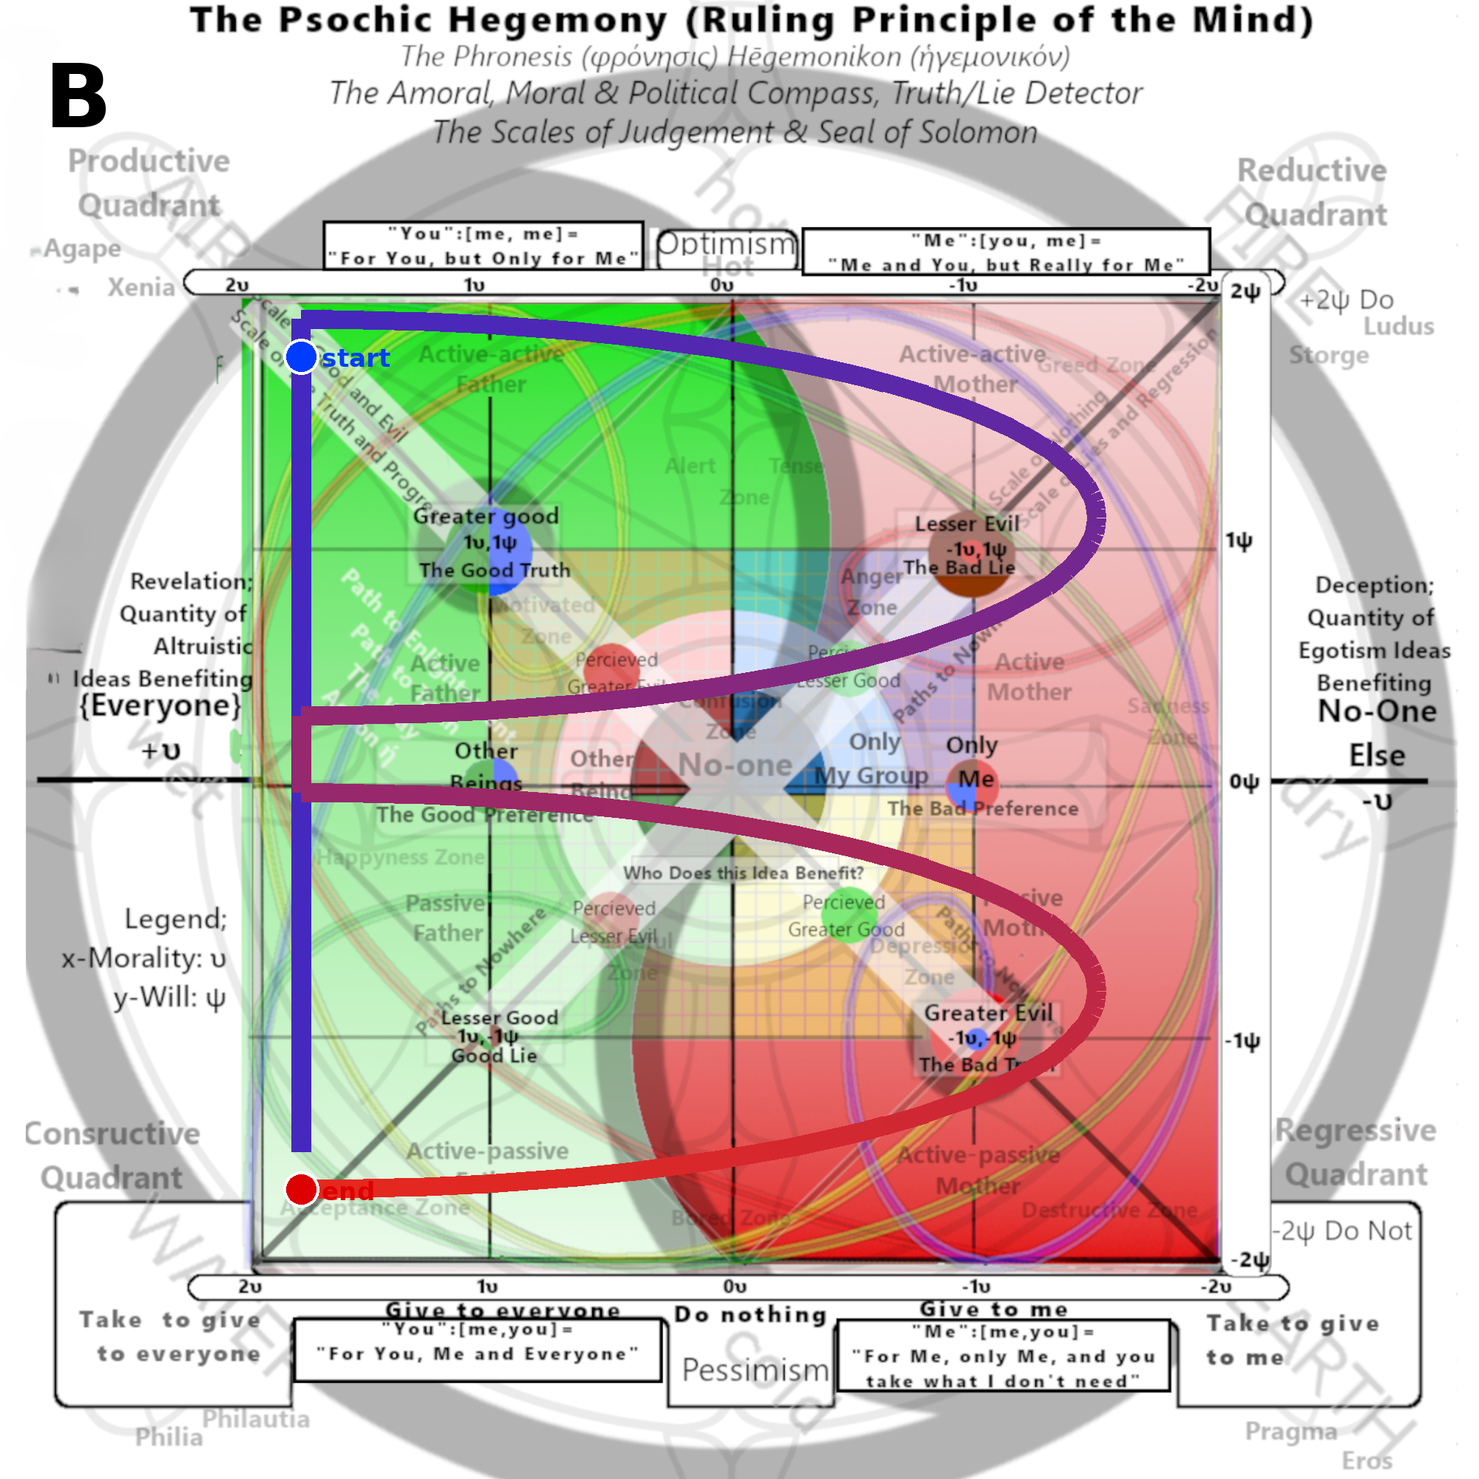
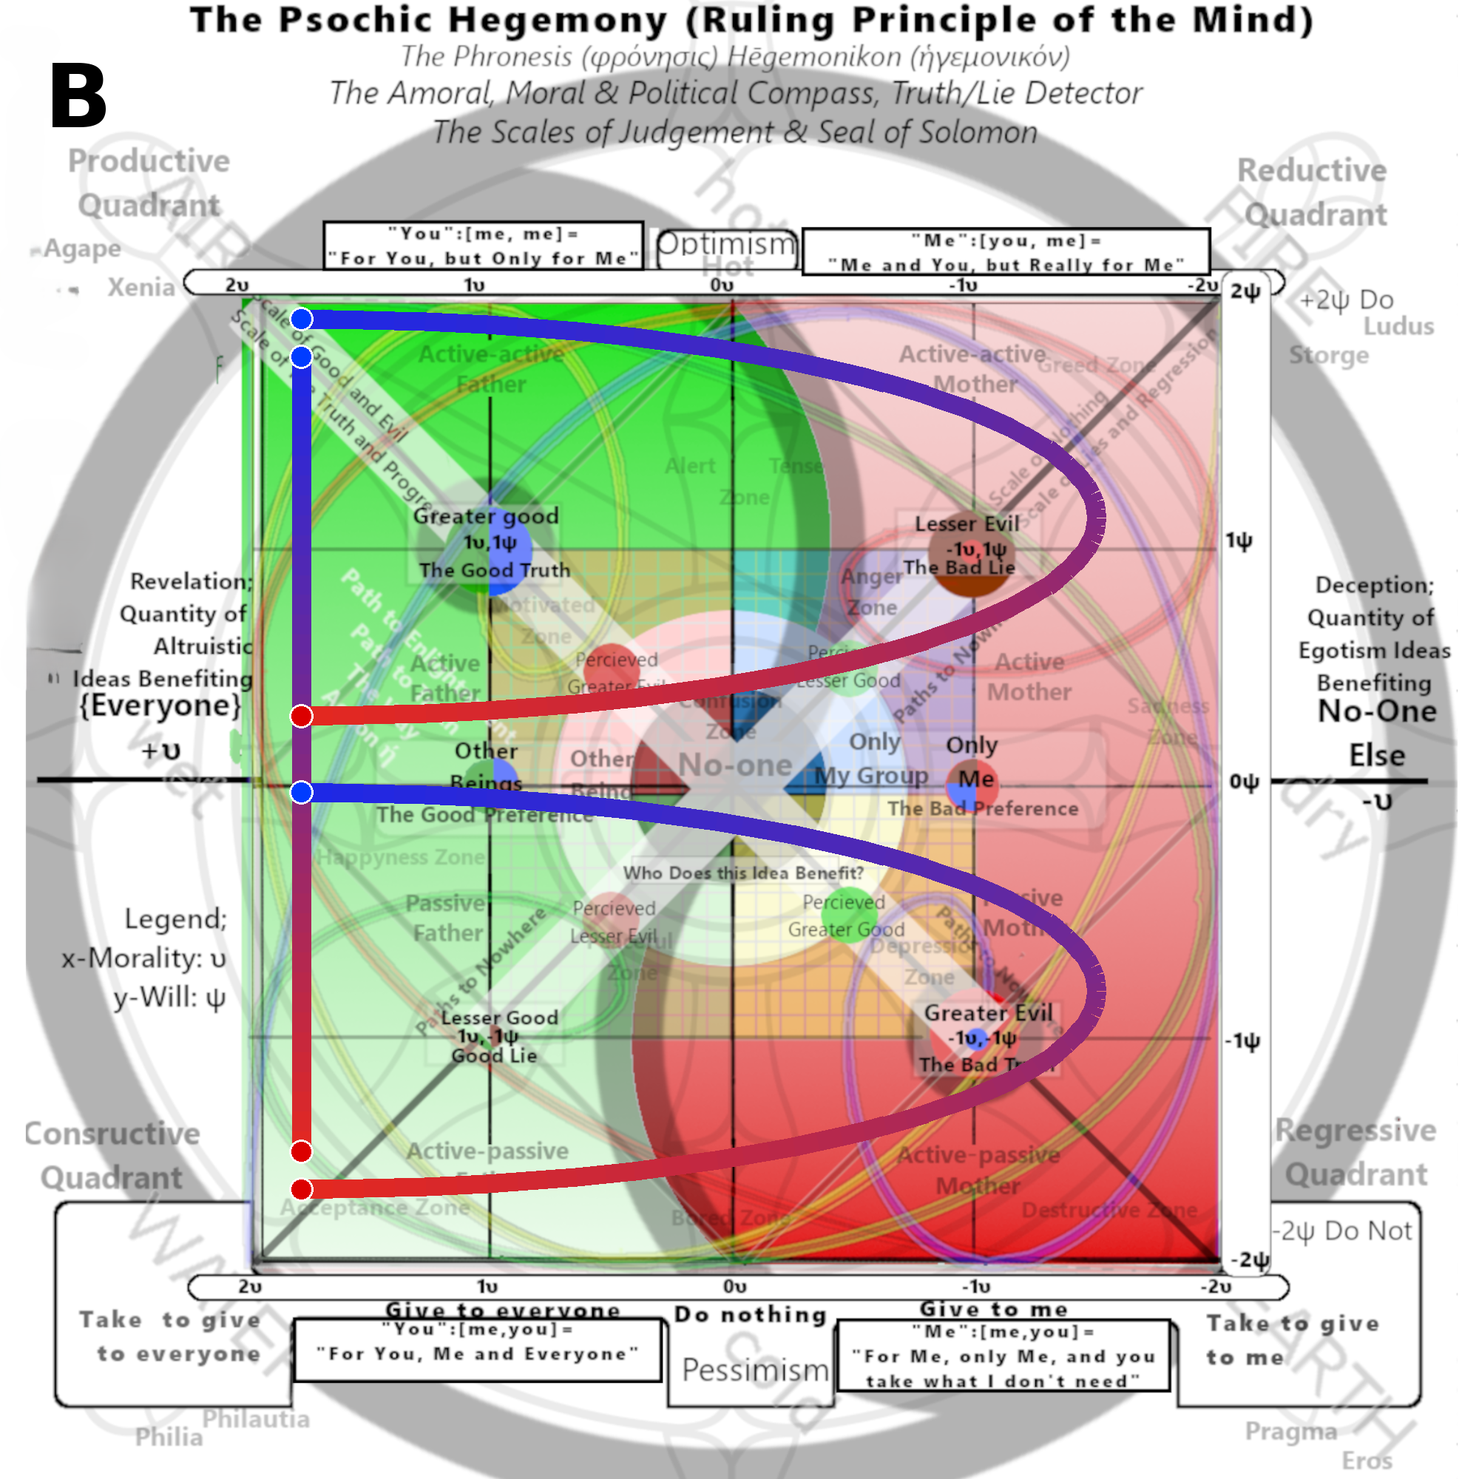
Process reading: one pen per stroke, no lift lines; per-stroke tables

diff --git a/names-omniweave-170926/alphabet-basic-forms.md b/names-omniweave-170926/alphabet-basic-forms.md
@@ -80,85 +80,285 @@ The seven-plane readings and the Omni-Weave bigram table are separate instrument
 
 The balance point above is the 2D projection, ο. What the projection discards is the letter's progression along the depth axis, t. Following the Hellenic Ideogrammatic System, ο = Proj_x(υ): the static shadow is what remains once the process has been looked at end-on, and a symmetrical form casts a shadow at the origin whatever it did on the way.
 
-To recover the process, each letter is traced as a path over t in its standard left-to-right reading order and the path is followed across the grid. One image per letter, path coloured blue at t = 0 through to red at t = 1, is in `process/`.
+To recover the process, each letter is traced over t and followed across the grid. **Every stroke has its own pen.** A stroke is one axis explored; the pen is not lifted and carried to the next, because there is no next for that pen. So a letter with four strokes is four independent traces, each with its own start, end and displacement, and the letter's process is the set of them. One image per letter, each stroke coloured blue at its own t = 0 through to red at its own t = 1, is in `process/`.
 
-Three quantities come out of the trace. **Start** and **end** are where the path enters and leaves the grid. **Net** is end minus start, the first-order content of the process. **Winding** is the signed sweep of the path about the origin, positive anticlockwise on the diagram; its sign is the handedness of the spiral and its magnitude is how much of the grid the process encloses.
+Per stroke: **start** and **end** on the grid, **net** as end minus start, and **winding** as the signed sweep about the origin, positive anticlockwise on the diagram. Per letter: the vector sum of the stroke nets and the sum of the windings. The sum is raw and not normalised, so a letter with three rightward bars really does move right three times.
 
-One thing to hold: because page-right is −υ, a path drawn anticlockwise on the page reads clockwise on the diagram. O traced the way the Hellenic document gives it, cos then sin, comes out with negative winding here. The handedness flips at the projection and the flip is the diagram's, not the letter's.
+Direction within a stroke is the Actualism document's left-to-right standard reading; its right-to-left inverse negates every net. Because page-right is −υ, a stroke traced anticlockwise on the page reads clockwise on the diagram, so O traced cos then sin comes out with negative winding. The handedness flips at the projection, and the flip is the diagram's, not the letter's.
 
-| Letter | ο (static) | start | end | net over t | winding |
-|---|---|---|---|---|---|
-| A | (+0.00, -0.12) | (+1.68, -1.68) | (-1.12, -0.40) | (-2.80, +1.28) | +3.65 |
-| B | (+0.17, +0.00) | (+1.68, +1.68) | (+1.68, -1.84) | (-0.00, -3.52) | +5.91 |
-| C | (+0.44, +0.00) | (-1.29, +1.08) | (-1.29, -1.08) | (+0.00, -2.16) | -6.89 |
-| D | (+0.31, +0.00) | (+1.68, +1.68) | (+1.68, -1.68) | (-0.00, -3.36) | +6.04 |
-| E | (+0.41, +0.01) | (+1.68, +1.68) | (-1.68, -1.68) | (-3.36, -3.36) | -0.24 |
-| F | (+0.58, +0.58) | (+1.68, +1.68) | (-1.40, +0.00) | (-3.08, -1.68) | +1.41 |
-| G | (+0.03, -0.06) | (-1.29, +1.08) | (-0.20, +0.00) | (+1.09, -1.08) | -8.04 |
-| H | (+0.00, +0.00) | (+1.68, +1.68) | (-1.68, +0.00) | (-3.36, -1.68) | +1.41 |
-| I | (+0.00, +0.00) | (+0.00, +1.68) | (+0.00, -1.68) | (+0.00, -3.36) | +0.00 |
-| J | (-0.27, -0.54) | (-0.80, +1.68) | (+1.20, -0.80) | (+2.00, -2.48) | +3.36 |
-| K | (+0.44, +0.00) | (+1.68, +1.68) | (-1.68, -1.68) | (-3.36, -3.36) | -2.82 |
-| L | (+0.83, -0.82) | (+1.68, +1.68) | (-1.68, -1.68) | (-3.36, -3.36) | -5.64 |
-| M | (+0.00, +0.20) | (+1.68, -1.68) | (-1.68, -1.68) | (-3.36, -0.00) | +4.97 |
-| N | (+0.00, +0.00) | (+1.68, -1.68) | (-1.68, +1.68) | (-3.36, +3.36) | -0.00 |
-| O | (+0.00, +0.00) | (+0.00, +1.68) | (-0.00, +1.68) | (-0.00, +0.00) | -8.86 |
-| P | (+0.45, +0.64) | (+1.68, +1.68) | (+1.68, +0.16) | (-0.00, -1.52) | +3.16 |
-| Q | (-0.10, -0.10) | (+0.00, +1.68) | (-1.68, -1.68) | (-1.68, -3.36) | -8.45 |
-| R | (+0.22, +0.30) | (+1.68, +1.68) | (-1.68, -1.68) | (-3.36, -3.36) | +2.60 |
-| S | (+0.00, +0.01) | (-0.84, +1.00) | (+0.84, -1.00) | (+1.68, -2.00) | +0.00 |
-| T | (+0.00, +0.81) | (+1.68, +1.68) | (+0.00, -1.68) | (-1.68, -3.36) | +1.41 |
-| U | (+0.00, -0.31) | (+1.68, +1.68) | (-1.68, +1.68) | (-3.36, +0.00) | -7.25 |
-| V | (+0.00, +0.07) | (+1.68, +1.68) | (-1.68, +1.68) | (-3.36, +0.00) | -2.82 |
-| W | (+0.00, +0.08) | (+1.68, +1.68) | (-1.68, +1.68) | (-3.36, +0.00) | -2.82 |
-| X | (+0.00, -0.00) | (+1.68, +1.68) | (+1.68, -1.68) | (+0.00, -3.36) | -2.82 |
-| Y | (-0.00, +0.42) | (+1.68, +1.68) | (+0.00, -1.68) | (-1.68, -3.36) | -0.00 |
-| Z | (+0.00, +0.01) | (+1.68, +1.68) | (-1.68, -1.68) | (-3.36, -3.36) | +0.00 |
+### Summary
+
+| Letter | ο (static) | strokes | net sum | winding sum |
+|---|---|---|---|---|
+| A | (+0.00, -0.12) | 3 | (-5.60, +0.00) | +2.37 |
+| B | (+0.17, +0.00) | 3 | (+0.00, -6.72) | +3.22 |
+| C | (+0.44, +0.00) | 1 | (+0.00, -2.16) | -6.89 |
+| D | (+0.31, +0.00) | 2 | (+0.00, -6.72) | +3.22 |
+| E | (+0.41, +0.01) | 4 | (-9.80, -3.36) | -2.82 |
+| F | (+0.58, +0.58) | 3 | (-6.44, -3.36) | +0.00 |
+| G | (+0.03, -0.06) | 3 | (+1.48, -0.96) | -7.90 |
+| H | (+0.00, +0.00) | 3 | (-3.36, -6.72) | +0.00 |
+| I | (+0.00, +0.00) | 1 | (+0.00, -3.36) | +0.00 |
+| J | (-0.27, -0.54) | 2 | (+2.00, -2.48) | +3.36 |
+| K | (+0.44, +0.00) | 3 | (-6.72, -3.36) | -2.82 |
+| L | (+0.83, -0.82) | 2 | (-3.36, -3.36) | -5.64 |
+| M | (+0.00, +0.20) | 4 | (-3.36, +0.00) | +4.97 |
+| N | (+0.00, +0.00) | 3 | (-3.36, +3.36) | -0.00 |
+| O | (+0.00, +0.00) | 1 | (-0.00, +0.00) | -8.86 |
+| P | (+0.45, +0.64) | 2 | (+0.00, -5.04) | +0.20 |
+| Q | (-0.10, -0.10) | 2 | (-1.20, -1.20) | -8.86 |
+| R | (+0.22, +0.30) | 3 | (-2.28, -6.72) | -0.31 |
+| S | (+0.00, +0.01) | 2 | (+1.68, -1.68) | +0.00 |
+| T | (+0.00, +0.81) | 2 | (-3.36, -3.36) | +2.82 |
+| U | (+0.00, -0.31) | 3 | (-3.36, -0.00) | -7.25 |
+| V | (+0.00, +0.07) | 2 | (-3.36, +0.00) | -2.82 |
+| W | (+0.00, +0.08) | 4 | (-3.36, +0.00) | -2.82 |
+| X | (+0.00, -0.00) | 2 | (+0.00, -6.72) | -0.00 |
+| Y | (-0.00, +0.42) | 3 | (+0.00, -5.04) | -0.00 |
+| Z | (+0.00, +0.01) | 3 | (-3.36, -3.36) | +0.00 |
+
+### Per-stroke traces
+
+**A**
+
+| stroke | start | end | net | winding |
+|---|---|---|---|---|
+| 1 | (+1.68, -1.68) | (+0.00, +1.68) | (-1.68, +3.36) | +1.41 |
+| 2 | (+0.00, +1.68) | (-1.68, -1.68) | (-1.68, -3.36) | +1.41 |
+| 3 | (+1.12, -0.40) | (-1.12, -0.40) | (-2.24, +0.00) | -0.45 |
+
+**B**
+
+| stroke | start | end | net | winding |
+|---|---|---|---|---|
+| 1 | (+1.68, +1.68) | (+1.68, -1.68) | (+0.00, -3.36) | -2.82 |
+| 2 | (+1.68, +1.84) | (+1.68, +0.16) | (+0.00, -1.68) | +3.02 |
+| 3 | (+1.68, -0.16) | (+1.68, -1.84) | (+0.00, -1.68) | +3.02 |
+
+**C**
+
+| stroke | start | end | net | winding |
+|---|---|---|---|---|
+| 1 | (-1.29, +1.08) | (-1.29, -1.08) | (+0.00, -2.16) | -6.89 |
+
+**D**
+
+| stroke | start | end | net | winding |
+|---|---|---|---|---|
+| 1 | (+1.68, +1.68) | (+1.68, -1.68) | (+0.00, -3.36) | -2.82 |
+| 2 | (+1.68, +1.68) | (+1.68, -1.68) | (+0.00, -3.36) | +6.04 |
+
+**E**
+
+| stroke | start | end | net | winding |
+|---|---|---|---|---|
+| 1 | (+1.68, +1.68) | (+1.68, -1.68) | (+0.00, -3.36) | -2.82 |
+| 2 | (+1.68, +1.68) | (-1.68, +1.68) | (-3.36, +0.00) | +2.82 |
+| 3 | (+1.68, +0.00) | (-1.40, +0.00) | (-3.08, +0.00) | +0.00 |
+| 4 | (+1.68, -1.68) | (-1.68, -1.68) | (-3.36, +0.00) | -2.82 |
+
+**F**
+
+| stroke | start | end | net | winding |
+|---|---|---|---|---|
+| 1 | (+1.68, +1.68) | (+1.68, -1.68) | (+0.00, -3.36) | -2.82 |
+| 2 | (+1.68, +1.68) | (-1.68, +1.68) | (-3.36, +0.00) | +2.82 |
+| 3 | (+1.68, +0.00) | (-1.40, +0.00) | (-3.08, +0.00) | +0.00 |
+
+**G**
+
+| stroke | start | end | net | winding |
+|---|---|---|---|---|
+| 1 | (-1.29, +1.08) | (-1.29, -1.08) | (+0.00, -2.16) | -6.89 |
+| 2 | (-1.68, -1.20) | (-1.68, +0.00) | (+0.00, +1.20) | -1.01 |
+| 3 | (-1.68, +0.00) | (-0.20, +0.00) | (+1.48, +0.00) | +0.00 |
+
+**H**
+
+| stroke | start | end | net | winding |
+|---|---|---|---|---|
+| 1 | (+1.68, +1.68) | (+1.68, -1.68) | (+0.00, -3.36) | -2.82 |
+| 2 | (-1.68, +1.68) | (-1.68, -1.68) | (+0.00, -3.36) | +2.82 |
+| 3 | (+1.68, +0.00) | (-1.68, +0.00) | (-3.36, +0.00) | +0.00 |
+
+**I**
+
+| stroke | start | end | net | winding |
+|---|---|---|---|---|
+| 1 | (+0.00, +1.68) | (+0.00, -1.68) | (+0.00, -3.36) | +0.00 |
+
+**J**
+
+| stroke | start | end | net | winding |
+|---|---|---|---|---|
+| 1 | (-0.80, +1.68) | (-0.80, -0.80) | (+0.00, -2.48) | +0.99 |
+| 2 | (-0.80, -0.80) | (+1.20, -0.80) | (+2.00, -0.00) | +2.37 |
+
+**K**
+
+| stroke | start | end | net | winding |
+|---|---|---|---|---|
+| 1 | (+1.68, +1.68) | (+1.68, -1.68) | (+0.00, -3.36) | -2.82 |
+| 2 | (+1.68, +0.00) | (-1.68, +1.68) | (-3.36, +1.68) | +1.41 |
+| 3 | (+1.68, +0.00) | (-1.68, -1.68) | (-3.36, -1.68) | -1.41 |
+
+**L**
+
+| stroke | start | end | net | winding |
+|---|---|---|---|---|
+| 1 | (+1.68, +1.68) | (+1.68, -1.68) | (+0.00, -3.36) | -2.82 |
+| 2 | (+1.68, -1.68) | (-1.68, -1.68) | (-3.36, +0.00) | -2.82 |
+
+**M**
+
+| stroke | start | end | net | winding |
+|---|---|---|---|---|
+| 1 | (+1.68, -1.68) | (+1.68, +1.68) | (+0.00, +3.36) | +2.82 |
+| 2 | (+1.68, +1.68) | (+0.00, -0.40) | (-1.68, -2.08) | -0.34 |
+| 3 | (+0.00, -0.40) | (-1.68, +1.68) | (-1.68, +2.08) | -0.34 |
+| 4 | (-1.68, +1.68) | (-1.68, -1.68) | (+0.00, -3.36) | +2.82 |
+
+**N**
+
+| stroke | start | end | net | winding |
+|---|---|---|---|---|
+| 1 | (+1.68, -1.68) | (+1.68, +1.68) | (+0.00, +3.36) | +2.82 |
+| 2 | (+1.68, +1.68) | (-1.68, -1.68) | (-3.36, -3.36) | -0.00 |
+| 3 | (-1.68, -1.68) | (-1.68, +1.68) | (+0.00, +3.36) | -2.82 |
+
+**O**
+
+| stroke | start | end | net | winding |
+|---|---|---|---|---|
+| 1 | (+0.00, +1.68) | (-0.00, +1.68) | (-0.00, +0.00) | -8.86 |
+
+**P**
+
+| stroke | start | end | net | winding |
+|---|---|---|---|---|
+| 1 | (+1.68, +1.68) | (+1.68, -1.68) | (+0.00, -3.36) | -2.82 |
+| 2 | (+1.68, +1.84) | (+1.68, +0.16) | (+0.00, -1.68) | +3.02 |
+
+**Q**
+
+| stroke | start | end | net | winding |
+|---|---|---|---|---|
+| 1 | (+0.00, +1.68) | (-0.00, +1.68) | (-0.00, +0.00) | -8.86 |
+| 2 | (-0.48, -0.48) | (-1.68, -1.68) | (-1.20, -1.20) | -0.00 |
+
+**R**
+
+| stroke | start | end | net | winding |
+|---|---|---|---|---|
+| 1 | (+1.68, +1.68) | (+1.68, -1.68) | (+0.00, -3.36) | -2.82 |
+| 2 | (+1.68, +1.84) | (+1.68, +0.16) | (+0.00, -1.68) | +3.02 |
+| 3 | (+0.60, +0.00) | (-1.68, -1.68) | (-2.28, -1.68) | -0.50 |
+
+**S**
+
+| stroke | start | end | net | winding |
+|---|---|---|---|---|
+| 1 | (-0.84, +1.00) | (+0.00, +0.16) | (+0.84, -0.84) | -2.08 |
+| 2 | (+0.00, -0.16) | (+0.84, -1.00) | (+0.84, -0.84) | +2.08 |
+
+**T**
+
+| stroke | start | end | net | winding |
+|---|---|---|---|---|
+| 1 | (+1.68, +1.68) | (-1.68, +1.68) | (-3.36, +0.00) | +2.82 |
+| 2 | (+0.00, +1.68) | (+0.00, -1.68) | (+0.00, -3.36) | +0.00 |
+
+**U**
+
+| stroke | start | end | net | winding |
+|---|---|---|---|---|
+| 1 | (+1.68, +1.68) | (+1.68, +0.00) | (+0.00, -1.68) | -1.41 |
+| 2 | (+1.68, +0.00) | (-1.68, -0.00) | (-3.36, -0.00) | -4.43 |
+| 3 | (-1.68, +0.00) | (-1.68, +1.68) | (+0.00, +1.68) | -1.41 |
+
+**V**
+
+| stroke | start | end | net | winding |
+|---|---|---|---|---|
+| 1 | (+1.68, +1.68) | (+0.00, -1.68) | (-1.68, -3.36) | -1.41 |
+| 2 | (+0.00, -1.68) | (-1.68, +1.68) | (-1.68, +3.36) | -1.41 |
+
+**W**
+
+| stroke | start | end | net | winding |
+|---|---|---|---|---|
+| 1 | (+1.68, +1.68) | (+1.00, -1.68) | (-0.68, -3.36) | -2.25 |
+| 2 | (+1.00, -1.68) | (+0.00, +1.68) | (-1.00, +3.36) | +0.84 |
+| 3 | (+0.00, +1.68) | (-1.00, -1.68) | (-1.00, -3.36) | +0.84 |
+| 4 | (-1.00, -1.68) | (-1.68, +1.68) | (-0.68, +3.36) | -2.25 |
+
+**X**
+
+| stroke | start | end | net | winding |
+|---|---|---|---|---|
+| 1 | (+1.68, +1.68) | (-1.68, -1.68) | (-3.36, -3.36) | -0.00 |
+| 2 | (-1.68, +1.68) | (+1.68, -1.68) | (+3.36, -3.36) | +0.00 |
+
+**Y**
+
+| stroke | start | end | net | winding |
+|---|---|---|---|---|
+| 1 | (+1.68, +1.68) | (+0.00, +0.00) | (-1.68, -1.68) | -0.00 |
+| 2 | (-1.68, +1.68) | (+0.00, +0.00) | (+1.68, -1.68) | +0.00 |
+| 3 | (+0.00, +0.00) | (+0.00, -1.68) | (+0.00, -1.68) | +0.00 |
+
+**Z**
+
+| stroke | start | end | net | winding |
+|---|---|---|---|---|
+| 1 | (+1.68, +1.68) | (-1.68, +1.68) | (-3.36, +0.00) | +2.82 |
+| 2 | (-1.68, +1.68) | (+1.68, -1.68) | (+3.36, -3.36) | +0.00 |
+| 3 | (+1.68, -1.68) | (-1.68, -1.68) | (-3.36, +0.00) | -2.82 |
 
 ### The nine at the origin, decoded
 
-**I.** Static (0, 0). Process: enters at (0, +1.68), leaves at (0, −1.68), net (0, −3.36), winding zero. A pure descent along the will axis with no turn. The wall is a fall from optimism to pessimism that never leaves the centre line.
+**I.** One stroke, (0, +1.68) to (0, −1.68). Net (0, −3.36), no winding. A fall down the will axis on the centre line.
 
-**O.** Static (0, 0). Net zero: it ends where it began. Winding −8.86, the largest sweep in the set. O has no displacement and the most rotation. It is the only letter whose whole content is turning, which is the spiral seen end-on exactly as the Hellenic document has it.
+**O.** One stroke, closed. Net zero, winding −8.86, the largest sweep in the set. No displacement and the most rotation: the spiral seen end-on, as the Hellenic document has it.
 
-**H.** Static (0, 0). Net (−3.36, −1.68). Winding +1.41. Enters at the everyone-optimism corner, leaves at the me wall on the axis. Two descents and a crossing. Hold is a process that starts in the productive corner and finishes at the self.
+**H.** Three pens. Two stems both falling, one bar crossing everyone to me. Net sum (−3.36, −6.72), winding zero because the two stems cancel each other's turn. Hold is two descents and one crossing.
 
-**N.** Static (0, 0). Net (−3.36, +3.36), winding zero. Enters at everyone-pessimism, leaves at me-optimism. The single crossing diagonal carries the whole path from the constructive corner to the reductive one with no turn at all. Next is a straight transfer across the grid.
+**N.** Three pens. Two stems rising, one diagonal from everyone-optimism to me-pessimism. Net sum (−3.36, +3.36), winding zero. The stems climb and the crossing drops.
 
-**S.** Static (0, 0). Net (+1.68, −2.00), winding zero. Two arcs of opposite sense that cancel exactly, so the sweep is nothing, but the path still moves from the upper-me side to the lower-everyone side. Sequence turns twice and ends up nowhere in rotation, somewhere in position.
+**S.** Two pens, opposite senses, windings cancel exactly to zero. Net sum (+1.68, −1.68). Two turns that leave no rotation and a diagonal drift toward everyone and down.
 
-**X.** Static (0, 0). Net (0, −3.36), winding −2.82. Two crossings, each from top to bottom, so the net is a pure descent like I, but with rotation that I lacks.
+**X.** Two pens, both from top to bottom, one each way. Net sum (0, −6.72), winding zero. Two falls whose sideways parts cancel.
 
-**Z.** Static (0, 0). Net (−3.36, −3.36), winding zero. Everyone-optimism to me-pessimism, the full diagonal, no turn.
+**Z.** Three pens. Two bars crossing everyone to me, one diagonal back from me-optimism to everyone-pessimism. Net sum (−3.36, −3.36), winding zero.
 
-**V and W.** Static near (0, 0). Both net (−3.36, 0), winding −2.82. Enter and leave on the optimism line, everyone side to me side, having dipped through the bottom. W dips twice and the winding does not double, because the two dips cancel each other's turn.
+**V and W.** Each stroke falls then rises. Net sum (−3.36, 0) for both, winding −2.82 for both. W has four pens to V's two and the same totals, because the second dip cancels the first.
 
-**G.** Static (0.03, −0.06). Net (+1.09, −1.08), winding −8.04, nearly O's. Gather is O's rotation with a small displacement added by the inward bar and stub.
+**G.** Three pens. C's arc gives −6.89; the stub and inward bar add turn and pull the net to (+1.48, −0.96). Gather is C's sweep with the mouth partly closed and a drift back toward everyone.
 
 ### The other seventeen, recoded
 
-The static point stays as the letter's standing position. The process adds where it travels. The recoding is the pair together: what the letter is, and what it does.
+**E.** Four pens: one stem falling, three bars each crossing everyone to me. Net sum (−9.80, −3.36), the largest sideways total in the set. Static (+0.41, 0), on the axis and slightly everyone. Energy stands near centre and moves toward the self three times over.
 
-**E and F.** Same start, everyone-optimism corner. E's path ends at me-pessimism, net (−3.36, −3.36); F's ends at (−1.40, 0), net (−3.08, −1.68). Energy runs the full diagonal to the far corner; force stops on the axis. The static reading had E level and F lifted. The process reading has E going further and lower.
+**F.** Three pens, the same without the base bar. Net sum (−6.44, −3.36). Static (+0.58, +0.58). Force stands productive and moves toward the self twice.
 
-**L.** Static (+0.83, −0.82), the furthest displaced form. Net (−3.36, −3.36), winding −5.64. Level is the one letter that both sits in a corner and sweeps the whole diagonal, with a large clockwise turn at its foot.
+**C, D, B.** C is one pen, net (0, −2.16), winding −6.89. D adds the stem: net (0, −6.72), winding +3.22. B has two bowls on the stem: net (0, −6.72), winding +3.22, identical to D in total, because the second bowl's turn is what the first bowl's turn already was at half the size. Static walks inward, C (+0.44), D (+0.31), B (+0.17), while the process holds constant from D to B.
 
-**T.** Static (0, +0.81). Net (−1.68, −3.36). Time stands at optimism and runs down the centre to pessimism.
+**P and R.** P: stem plus upper bowl, net (0, −5.04). R adds the leg, net (−2.28, −6.72). Release adds a drop toward the self that potential does not have.
 
-**C, D, B.** All three start at the top and end at the bottom on the same side, net (0, −2.16), (0, −3.36), (0, −3.52). Static: C (+0.44), D (+0.31), B (+0.17), walking inward. Process: the descent lengthens as the bowl is closed and doubled. Containment stands nearer the centre and falls further.
+**L.** Static (+0.83, −0.82), the most displaced form. Two pens, stem falling and bar crossing. Net (−3.36, −3.36), winding −5.64.
 
-**P and R.** P net (0, −1.52), a short descent ending at the axis with the bowl unfinished below. R net (−3.36, −3.36), the leg carrying it to the far corner. Potential stops; release runs.
+**T.** Static (0, +0.81). Bar crossing, stem falling. Net (−3.36, −3.36), winding +2.82. The same net as L with opposite winding: L turns at its foot, T at its head.
 
-**A.** Static (0, −0.12). Net (−2.80, +1.28), winding +3.65. Activity is the only letter whose process rises on the will axis while crossing from everyone to me. The bar at the end is what pulls it back up.
+**A.** Three pens: two legs converging upward and the bar crossing. Net sum (−5.60, 0), winding +2.37. The legs' vertical parts cancel and the bar and the second leg both carry it toward the self.
 
-**M.** Static (0, +0.20). Net (−3.36, 0). Enters and leaves on the pessimism line, having climbed to optimism twice. The inverse of V.
+**M.** Four pens. Net (−3.36, 0), winding +4.97. Enters and leaves the pessimism line, having climbed twice.
 
-**Q.** O's rotation, −8.45, with the tail adding net (−1.68, −3.36). Query is the sealed cycle plus a drop to the regressive corner.
+**Q.** O's sweep, −8.86, unchanged, with the tail adding net (−1.20, −1.20). Query is the sealed cycle plus a short drop toward the regressive corner.
 
-**J.** Static (−0.27, −0.54), the only base form in the regressive quadrant. Net (+2.00, −2.48), winding +3.36: it enters on the me side and hooks back toward everyone as it falls.
+**J.** Two pens. Net (+2.00, −2.48), winding +3.36. The only base form in the regressive quadrant, and its process hooks back toward everyone as it falls.
 
-**K.** Net (−3.36, −3.36), winding −2.82. Static (+0.44, 0). Key stands with C and runs with E.
+**K.** Three pens. Stem falling, two arms diverging from the stem's middle to the me wall. Net (−6.72, −3.36), winding −2.82.
 
-**U.** Static (0, −0.31). Net (−3.36, 0), winding −7.25. Enters and leaves on the optimism line like V, but sweeps far more, because the bowl is a turn where V is a corner.
+**U.** Three pens. Net (−3.36, 0), winding −7.25. V's totals with a much larger sweep, because the bowl is a turn where V is a corner.
 
-**Y.** Net (−1.68, −3.36), winding zero. Enters at everyone-optimism, leaves at bottom-centre, no turn. Yield converges and drops.
+**Y.** Three pens converging on the centre then dropping. Net (0, −5.04), winding zero. Two arms cancel sideways; the stem carries it down.
